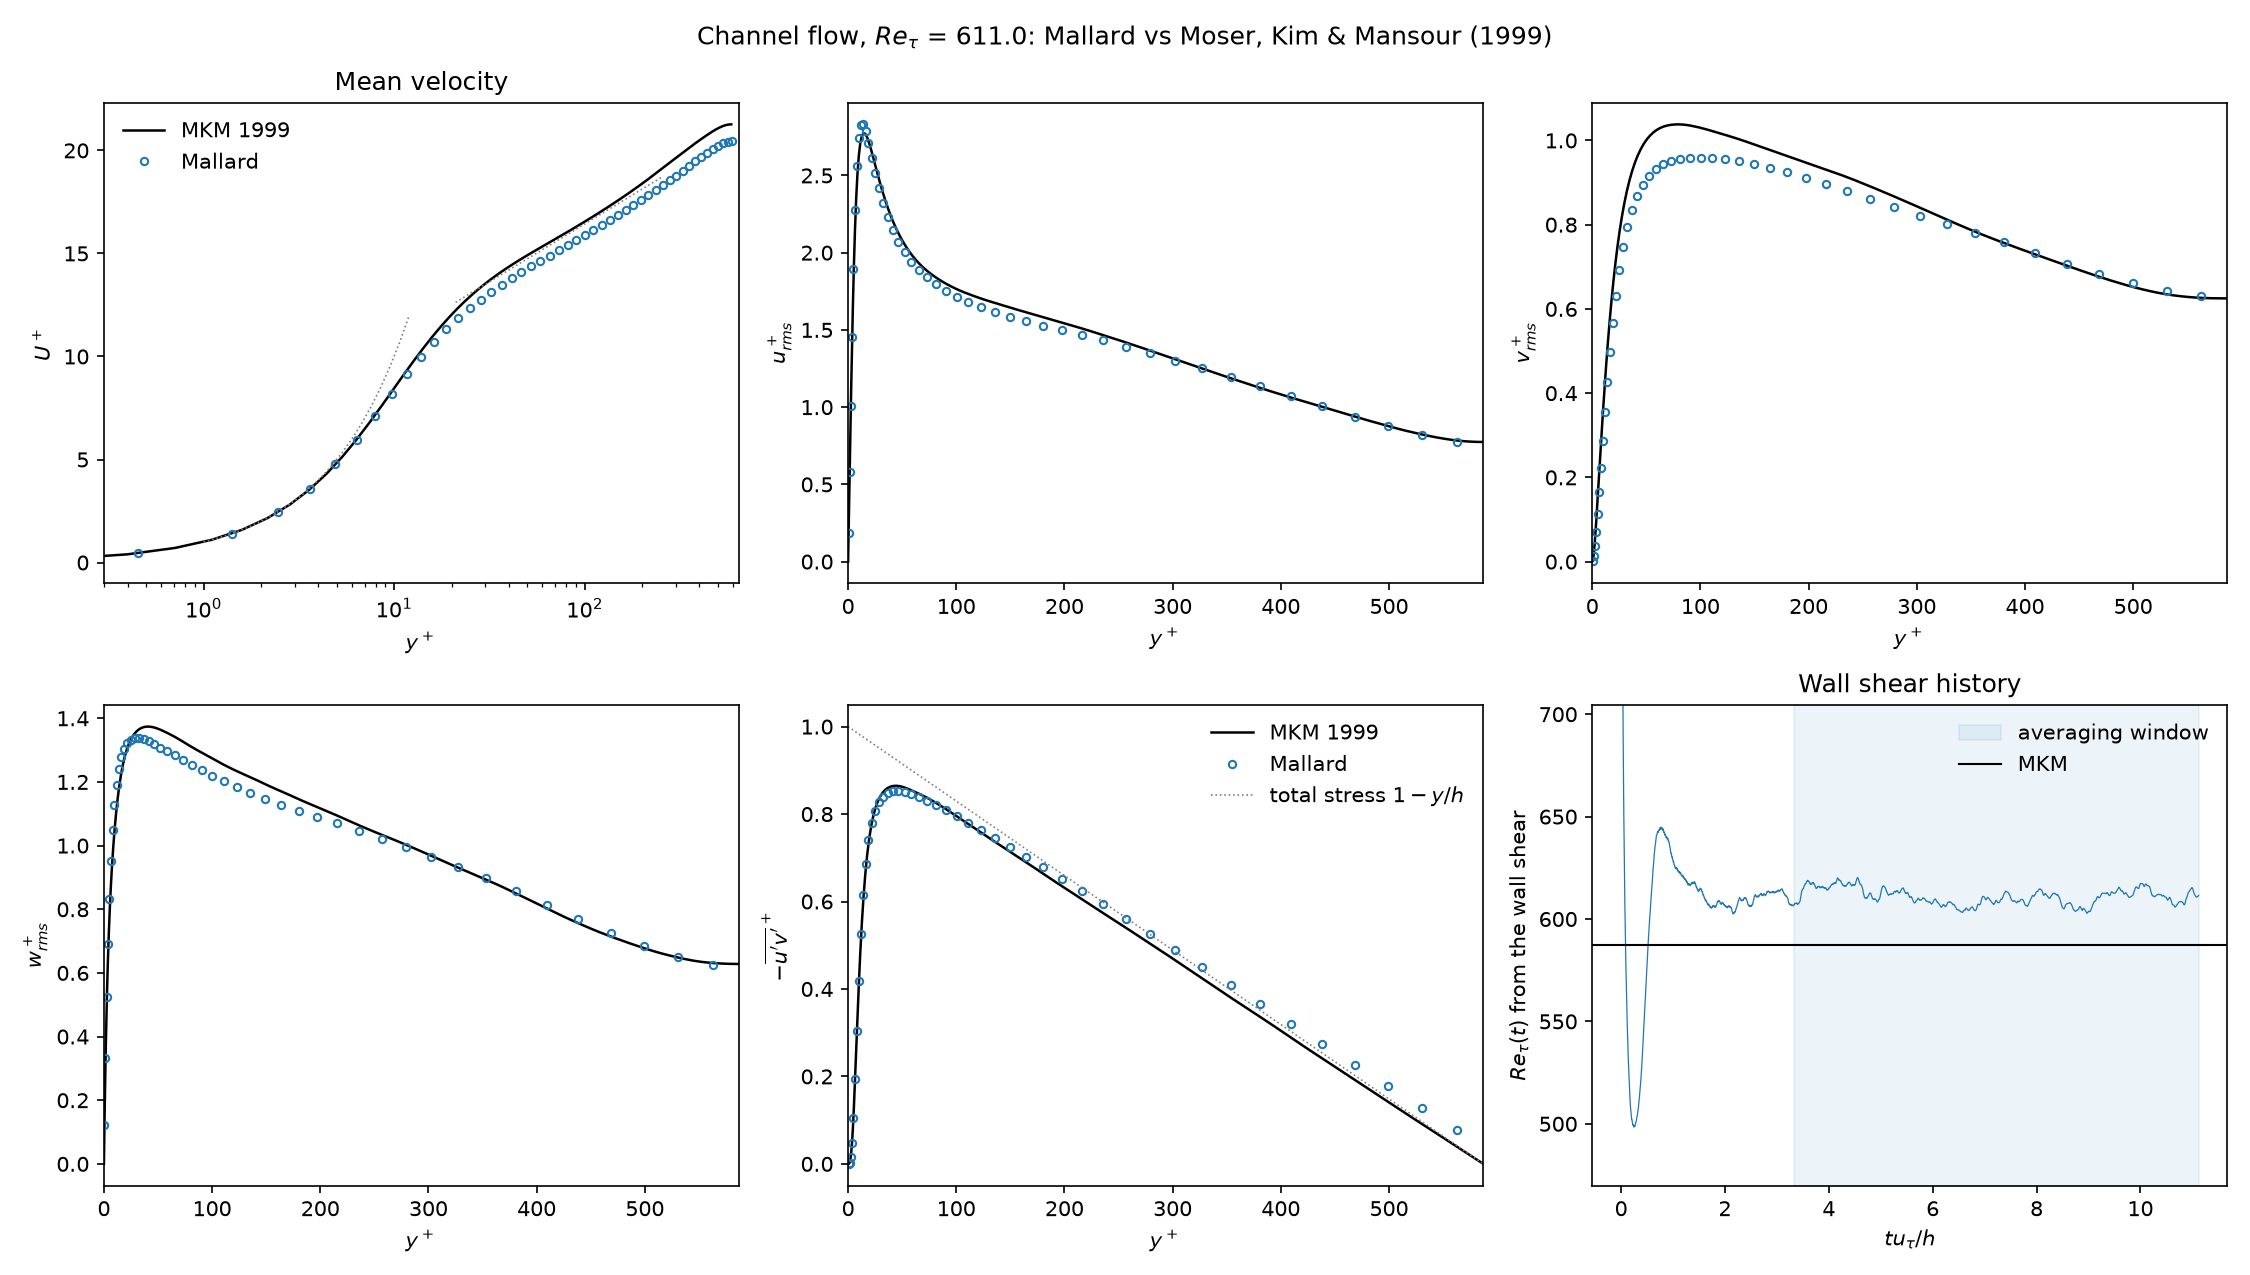
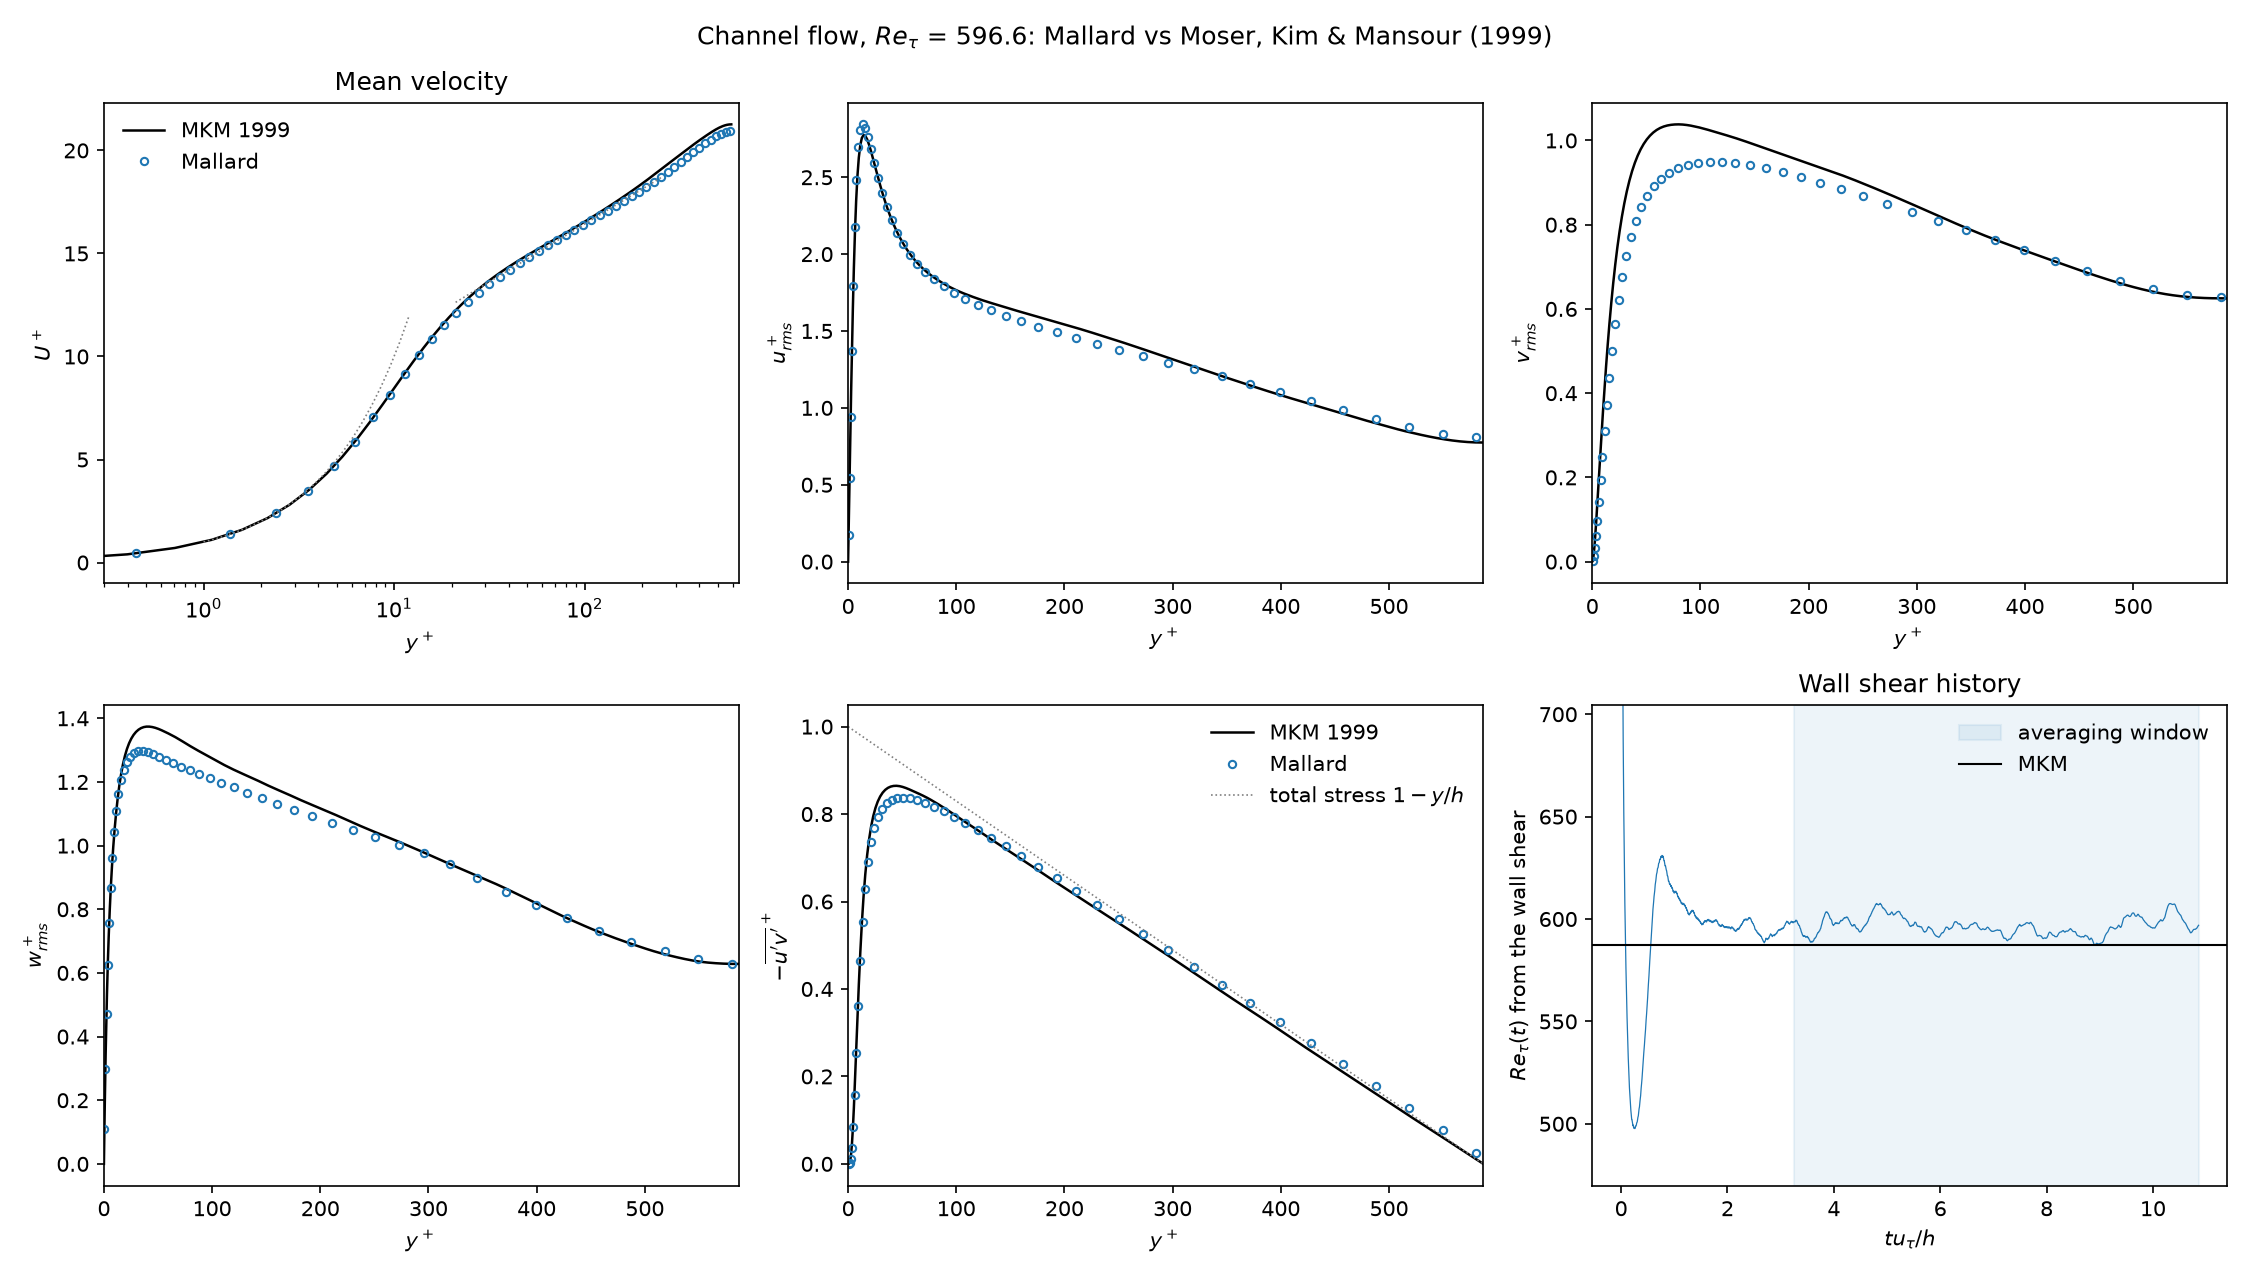
Channel 590: figure of the default (Scotti) run

diff --git a/docs/design/les.md b/docs/design/les.md
@@ -810,7 +810,7 @@ Findings:
 96^3 hexahedra (dx+ = 38, dz+ = 19, dy+ = 0.87 at the wall), the numerics
 of the 395 case, `Re_b = 21,907` (MKM's `U_b+ = 18.65`), averaged over t =
 60-200 h/U_b (7.6-8.1 h/u_tau) after the synthetic initial field (the
-figure: Sigma with `V^(1/3)`). MKM's `Re_tau = 587.2`:
+figure: Sigma with Scotti's width, the default). MKM's `Re_tau = 587.2`:
 
 | Model | `Re_tau` | `Cf` | `U+(30)` / `U+(100)` (13.53 / 16.54) | peak `u_rms+` (2.77) | peak `v_rms+` (1.04) | numerical / SGS / molecular |
 |---|---|---|---|---|---|---|
